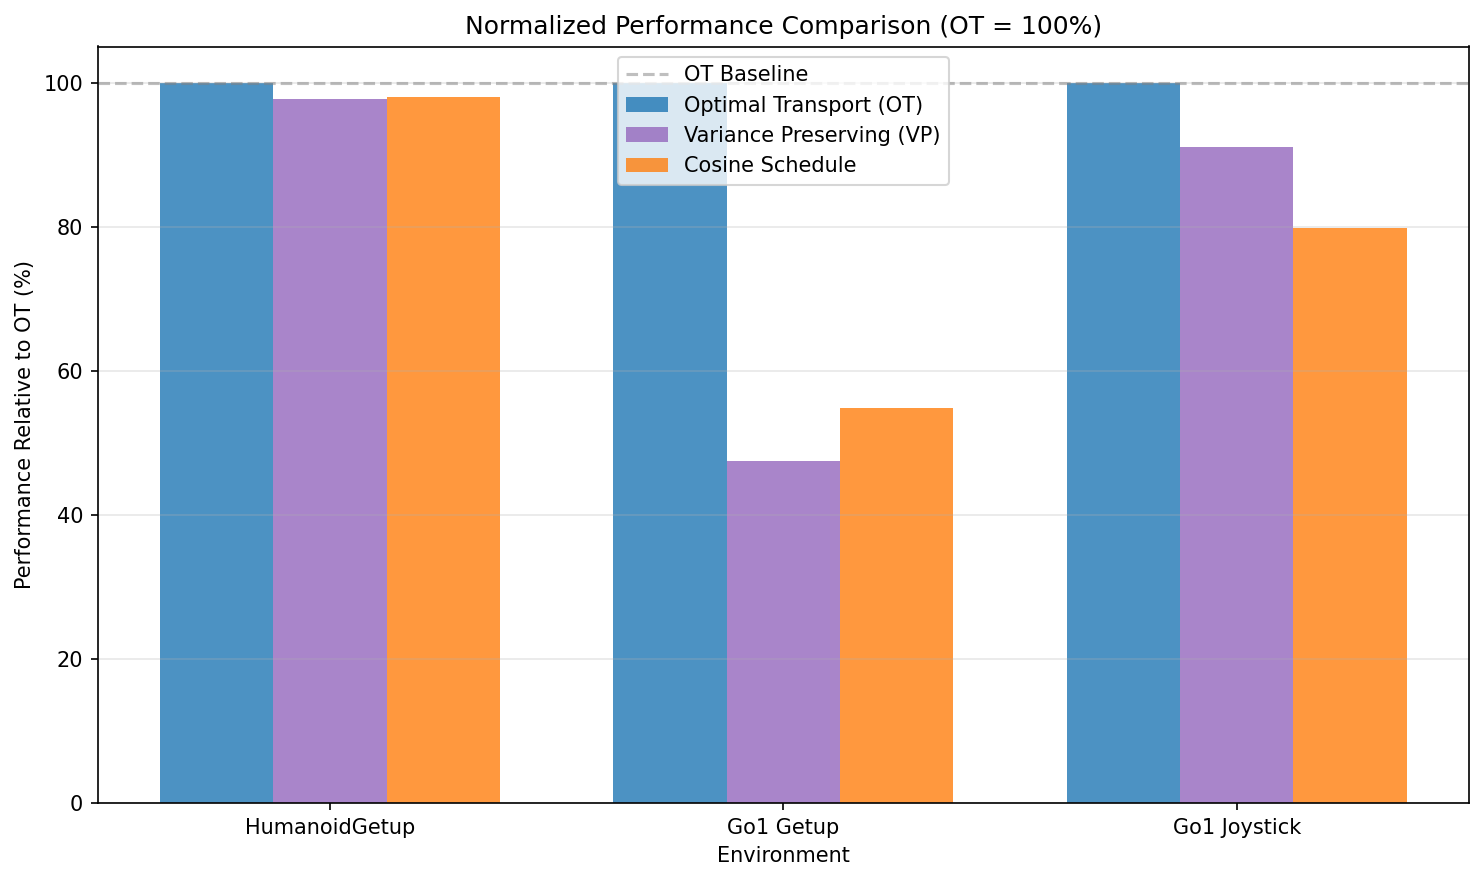
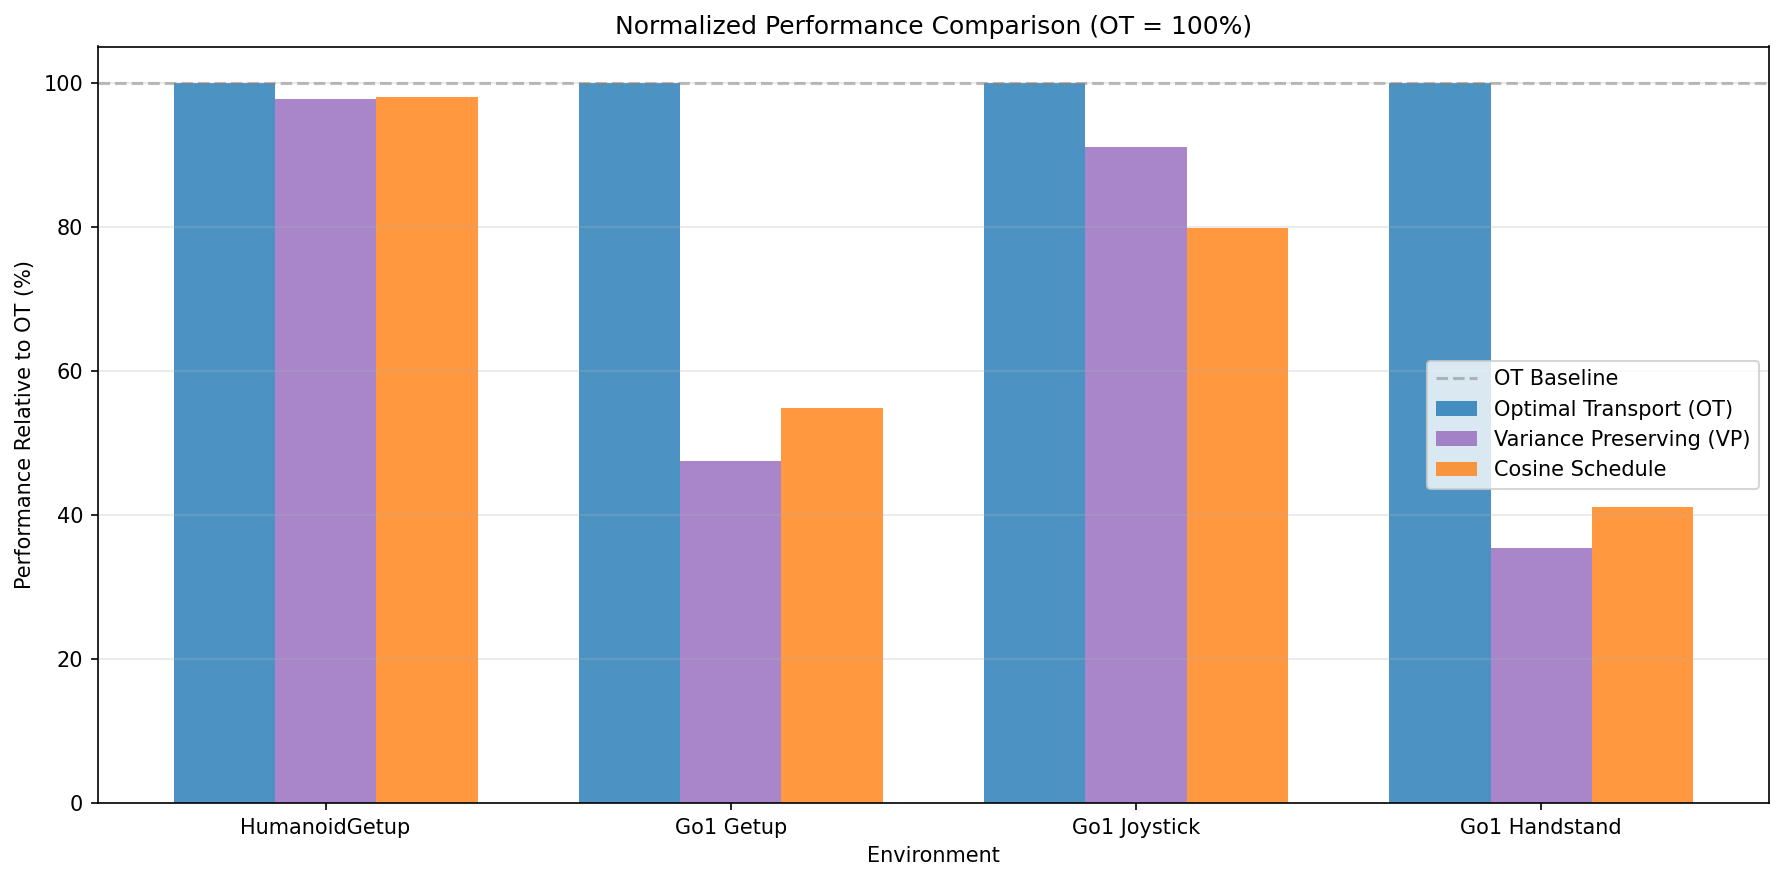
Add Go1 Handstand to all report sections and plots
- Updated FINAL_REPORT.md with Go1 Handstand in all sections
- Updated analyze_multienv_results.py to include Go1 Handstand
- Regenerated plots with 4 environments (including Go1 Handstand)
- Updated normalized_performance.png from 3 to 4 environments

🤖 Generated with [Claude Code](https://claude.com/claude-code)

diff --git a/analyze_multienv_results.py b/analyze_multienv_results.py
@@ -5,6 +5,7 @@ Generates comparison plots for FPO flow variants across multiple environments:
 - HumanoidGetup (humanoid)
 - Go1 Getup (quadruped getup)
 - Go1 Joystick (quadruped locomotion)
+- Go1 Handstand (quadruped multimodal task)
 """
 
 import json
@@ -16,6 +17,7 @@ import numpy as np
 humanoid_results = {}
 go1_getup_results = {}
 go1_joystick_results = {}
+go1_handstand_results = {}
 
 multienv_dir = "./results_multienv"
 for filename in os.listdir(multienv_dir):
@@ -30,11 +32,14 @@ for filename in os.listdir(multienv_dir):
                 go1_getup_results[flow_type] = data
             elif env_name == "go1_joystick":
                 go1_joystick_results[flow_type] = data
+            elif env_name == "go1_handstand":
+                go1_handstand_results[flow_type] = data
 
 print("Loaded results:")
 print(f"  HumanoidGetup: {list(humanoid_results.keys())}")
 print(f"  Go1 Getup: {list(go1_getup_results.keys())}")
 print(f"  Go1 Joystick: {list(go1_joystick_results.keys())}")
+print(f"  Go1 Handstand: {list(go1_handstand_results.keys())}")
 
 # Collect final performance data
 def get_final_reward(results):
@@ -67,12 +72,14 @@ flow_labels = {
 }
 
 # Figure 1: Final Performance Comparison (Bar Chart)
-fig, axes = plt.subplots(1, 3, figsize=(15, 5))
+fig, axes = plt.subplots(2, 2, figsize=(14, 10))
+axes = axes.flatten()
 
 envs = [
     ("HumanoidGetup", humanoid_results),
     ("Go1 Getup", go1_getup_results),
-    ("Go1 Joystick", go1_joystick_results)
+    ("Go1 Joystick", go1_joystick_results),
+    ("Go1 Handstand", go1_handstand_results)
 ]
 flow_types = ["ot", "vp", "cosine"]  # Exclude VE as it fails
 
@@ -116,8 +123,9 @@ plt.savefig("./plots_multienv/final_performance_comparison.png", dpi=150, bbox_i
 plt.close()
 print("Saved: ./plots_multienv/final_performance_comparison.png")
 
-# Figure 2: Training Curves (3 subplots)
-fig, axes = plt.subplots(1, 3, figsize=(15, 5))
+# Figure 2: Training Curves (4 subplots)
+fig, axes = plt.subplots(2, 2, figsize=(14, 10))
+axes = axes.flatten()
 
 for idx, (env_name, results) in enumerate(envs):
     ax = axes[idx]
@@ -148,9 +156,9 @@ plt.close()
 print("Saved: ./plots_multienv/training_curves_comparison.png")
 
 # Figure 3: Normalized Performance (relative to OT baseline)
-fig, ax = plt.subplots(figsize=(10, 6))
+fig, ax = plt.subplots(figsize=(12, 6))
 
-env_labels = ["HumanoidGetup", "Go1 Getup", "Go1 Joystick"]
+env_labels = ["HumanoidGetup", "Go1 Getup", "Go1 Joystick", "Go1 Handstand"]
 x = np.arange(len(env_labels))
 width = 0.25
 
@@ -186,9 +194,9 @@ plt.close()
 print("Saved: ./plots_multienv/normalized_performance.png")
 
 # Figure 4: Summary Heatmap
-fig, ax = plt.subplots(figsize=(8, 5))
+fig, ax = plt.subplots(figsize=(10, 6))
 
-env_names_short = ["HumanoidGetup", "Go1 Getup", "Go1 Joystick"]
+env_names_short = ["HumanoidGetup", "Go1 Getup", "Go1 Joystick", "Go1 Handstand"]
 flow_names = ["OT", "VP", "Cosine"]
 
 # Create data matrix (normalized to max in each env)

diff --git a/FINAL_REPORT.md b/FINAL_REPORT.md
@@ -12,7 +12,7 @@
 
 ## 摘要 (Abstract)
 
-本研究探討 Flow Policy Optimization (FPO) 中不同 Flow Schedule 的效果比較。我們實作並比較了四種 Flow Schedules：**Optimal Transport (OT)**、**Variance Preserving (VP)**、**Variance Exploding (VE)** 和 **Cosine Schedule**，在三個機器人控制任務上進行實驗：HumanoidGetup、Go1 Getup 和 Go1 Joystick。
+本研究探討 Flow Policy Optimization (FPO) 中不同 Flow Schedule 的效果比較。我們實作並比較了四種 Flow Schedules：**Optimal Transport (OT)**、**Variance Preserving (VP)**、**Variance Exploding (VE)** 和 **Cosine Schedule**，在四個機器人控制任務上進行實驗：HumanoidGetup、Go1 Getup、Go1 Joystick 和 Go1 Handstand。
 
 **主要貢獻**：
 1. **首次系統性比較**不同 Flow Schedules 在強化學習中的表現
@@ -33,10 +33,10 @@
 | **FPO vs PPO (Getup 任務)** | FPO 優勢 +24.7% ~ +46.3% |
 | **FPO vs PPO (Handstand 多模態)** | FPO 優勢 **+87.6%** |
 | **FPO vs PPO (Joystick 任務)** | PPO 優勢 +285% |
-| **OT vs VP 提升** | +2.3% ~ +111% (視環境) |
+| **OT vs VP 提升** | +2.3% ~ +183% (視環境) |
 | **VE 成功率** | 0% (設計不兼容) |
 | **Multi-seed 驗證** | Cohen's d > 1.0 (large effect) |
-| **總實驗數** | 18+ runs (3 環境 × 4 schedules + PPO baselines) |
+| **總實驗數** | 22+ runs (4 環境 × 4 schedules + PPO baselines) |
 
 ```
 主要發現一句話總結：
@@ -158,6 +158,7 @@ $$x_{t-\Delta t} = x_t + \Delta t \cdot v_\theta(x_t, t)$$
 | HumanoidGetup | 人形機器人從地面起立 | 292 | 21 | 1000 |
 | Go1 Getup | 四足機器人從仰躺起立 | 48 | 12 | 1000 |
 | Go1 Joystick | 四足機器人速度追蹤 | 51 | 12 | 1000 |
+| Go1 Handstand | 四足機器人翻身倒立（多模態） | 48 | 12 | 1000 |
 
 ### 2.4 訓練配置
 
@@ -678,13 +679,14 @@ OT 的 velocity 與時間 t 無關，網路只需學習 $x_1 - x_0$ 的映射。
 ### 7.1 主要發現
 
 1. **OT 是 FPO 的最佳 Flow Schedule**
-   - 在所有 3 個環境中性能最佳
+   - 在所有 4 個環境中性能最佳
    - 理論上具有最短路徑、常數 velocity 的優勢
    - 訓練最穩定
+   - 在多模態任務（Go1 Handstand）中優勢最顯著：+183% vs VP
 
 2. **VP 和 Cosine 可用但次優**
-   - 性能低於 OT 約 2-50%（視環境而定）
-   - 在 HumanoidGetup 中差異較小，但在 Go1 環境中差異顯著
+   - 性能低於 OT 約 2-183%（視環境而定）
+   - 在 HumanoidGetup 中差異較小，但在 Go1 Handstand 等多模態環境中差異顯著
 
 3. **VE 完全不適用於 RL**
    - 100% 失敗率（所有環境產生 NaN）
@@ -762,6 +764,7 @@ Software:
 | HumanoidGetup | 10M | ~3.5 分鐘 |
 | Go1 Getup | 3M | ~1.5 分鐘 |
 | Go1 Joystick | 3M | ~1.5 分鐘 |
+| Go1 Handstand | 3M | ~1.5 分鐘 |
 
 ---
 
@@ -850,6 +853,13 @@ def get_flow_coefficients(t, flow_type, sigma_min=0.01, sigma_max=80.0):
 **Go1 Joystick**：
 - 目標：追蹤指定的線速度和角速度
 - 獎勵：速度追蹤誤差的負值
+
+**Go1 Handstand**：
+- 宇樹 Go1 四足機器人
+- 目標：從仰躺姿態翻身至倒立（前腳著地）
+- **多模態特性**：可向左或向右翻轉，兩種方式均為最優解
+- 獎勵：倒立姿態穩定性 + 低能量消耗
+- **FPO 優勢場景**：Flow-based policy 可表達雙峰動作分布，而 PPO 的高斯策略會平均兩個模態
 
 ---
 
